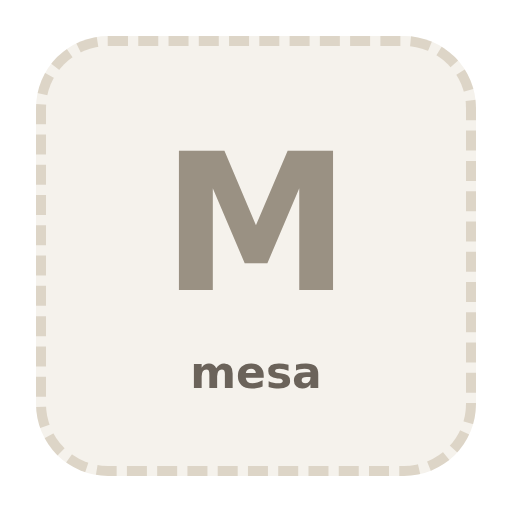
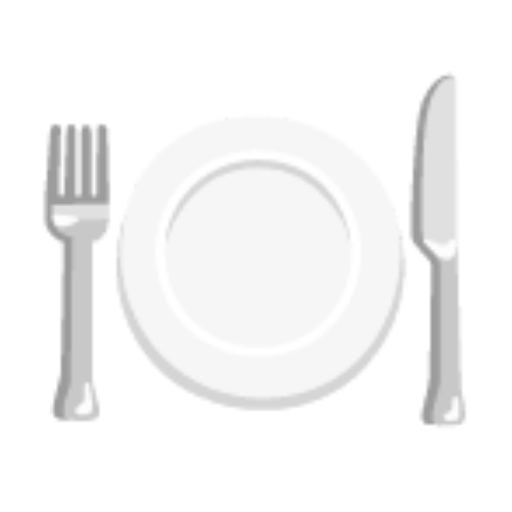
fix: tarjetas de audiometría verbal sin imagen (21 palabras con placeholder de letra)
21 palabras de las bandas con imagen (A: mesa, pala · B: manguera, mañana,
semana, sábana · C: aceite, barra, cana, fino, gana, garra, lino, loca,
marca, maña, pota, rota, seso, toca, yeso) no tenían pictograma en
VERBAL_GLYPHS, así que el generador de ilustraciones provisionales producía
un tile con la INICIAL en vez de un dibujo: en la prueba se veían fichas con
la palabra pero sin imagen.

- Añadido un emoji para las 21 palabras (elegido el más reconocible; las más
  abstractas —fino, gana, maña, rota, toca— llevan el más cercano, y como en
  esas bandas la tarjeta muestra también la palabra, el conjunto queda claro).
- Regeneradas las 21 ilustraciones provisionales (Playwright + Noto Color
  Emoji, mismo estilo y tamaño 512×512 que el resto). Verificado que ninguna
  palabra de banda con imagen queda ya como tile de letra.

Nota: siguen siendo assets PROVISIONALES; el ilustrador profesional los
sustituirá conservando la clave.

Claude-Session: https://claude.ai/code/session_01DpnB3wWuMSS2x6TVyNFN9k

diff --git a/src/Screens/VerbalAudiometry/verbalAudiometryGlyphs.ts b/src/Screens/VerbalAudiometry/verbalAudiometryGlyphs.ts
@@ -11,19 +11,26 @@ export const VERBAL_GLYPHS: Record<string, string> = {
   // Banda A
   pato: '🦆', gato: '🐱', pan: '🍞', mano: '✋', vaca: '🐄', casa: '🏠', taza: '☕',
   boca: '👄', mono: '🐒', pelota: '⚽', galleta: '🍪', zapato: '👟', manzana: '🍎',
-  plátano: '🍌', flor: '🌸', sol: '☀', pez: '🐟',
+  plátano: '🍌', flor: '🌸', sol: '☀', pez: '🐟', mesa: '🍽', pala: '🏓',
   // Banda B
   ventana: '🪟', campana: '🔔', cabaña: '🛖', caballo: '🐴', cebolla: '🧅',
   pastilla: '💊', botella: '🍾', rodilla: '🦵', mariposa: '🦋', escalera: '🪜',
   tijeras: '✂', bandera: '🚩', pájaro: '🐦', lámpara: '💡', cámara: '📷',
   número: '🔢', orejas: '👂', abejas: '🐝', cerezas: '🍒', maderas: '🪵',
   escoba: '🧹', escuela: '🏫', estrella: '⭐', ballena: '🐋', botón: '🔘',
-  maleta: '🧳', semilla: '🌱', gallina: '🐔',
-  cadena: '⛓',
+  maleta: '🧳', semilla: '🌱', gallina: '🐔', cadena: '⛓',
+  manguera: '🚿', mañana: '🌅', semana: '📅', sábana: '🛏',
   // Banda C
   pino: '🌲', vino: '🍷', niño: '👦', pila: '🔋', foca: '🦭', roca: '🪨',
   bota: '👢', gota: '💧', nota: '🎵', gorra: '🧢', rata: '🐀', lata: '🥫',
   pata: '🐾', bata: '🥼', gata: '🐈', rana: '🐸', caña: '🎣', reina: '👑',
   fuente: '⛲', puente: '🌉', diente: '🦷', queso: '🧀', beso: '💋', peso: '⚖',
   hueso: '🦴', jarra: '🏺', carta: '✉', cara: '🙂', peine: '🪮', parra: '🍇',
+  // Banda C — pares mínimos que antes quedaban sin dibujo (tile de inicial). Los
+  // más abstractos (fino, gana, maña, rota, toca) llevan el emoji más cercano;
+  // como en estas bandas la tarjeta muestra también la palabra, un pictograma
+  // plausible + palabra es más claro que una inicial suelta.
+  aceite: '🫒', barra: '🥖', cana: '👵', fino: '🪶', gana: '😋', garra: '🦅',
+  lino: '🧵', loca: '🤪', marca: '🏷', maña: '🛠', pota: '🦑', rota: '💔',
+  seso: '🧠', toca: '👆', yeso: '🩹',
 };
